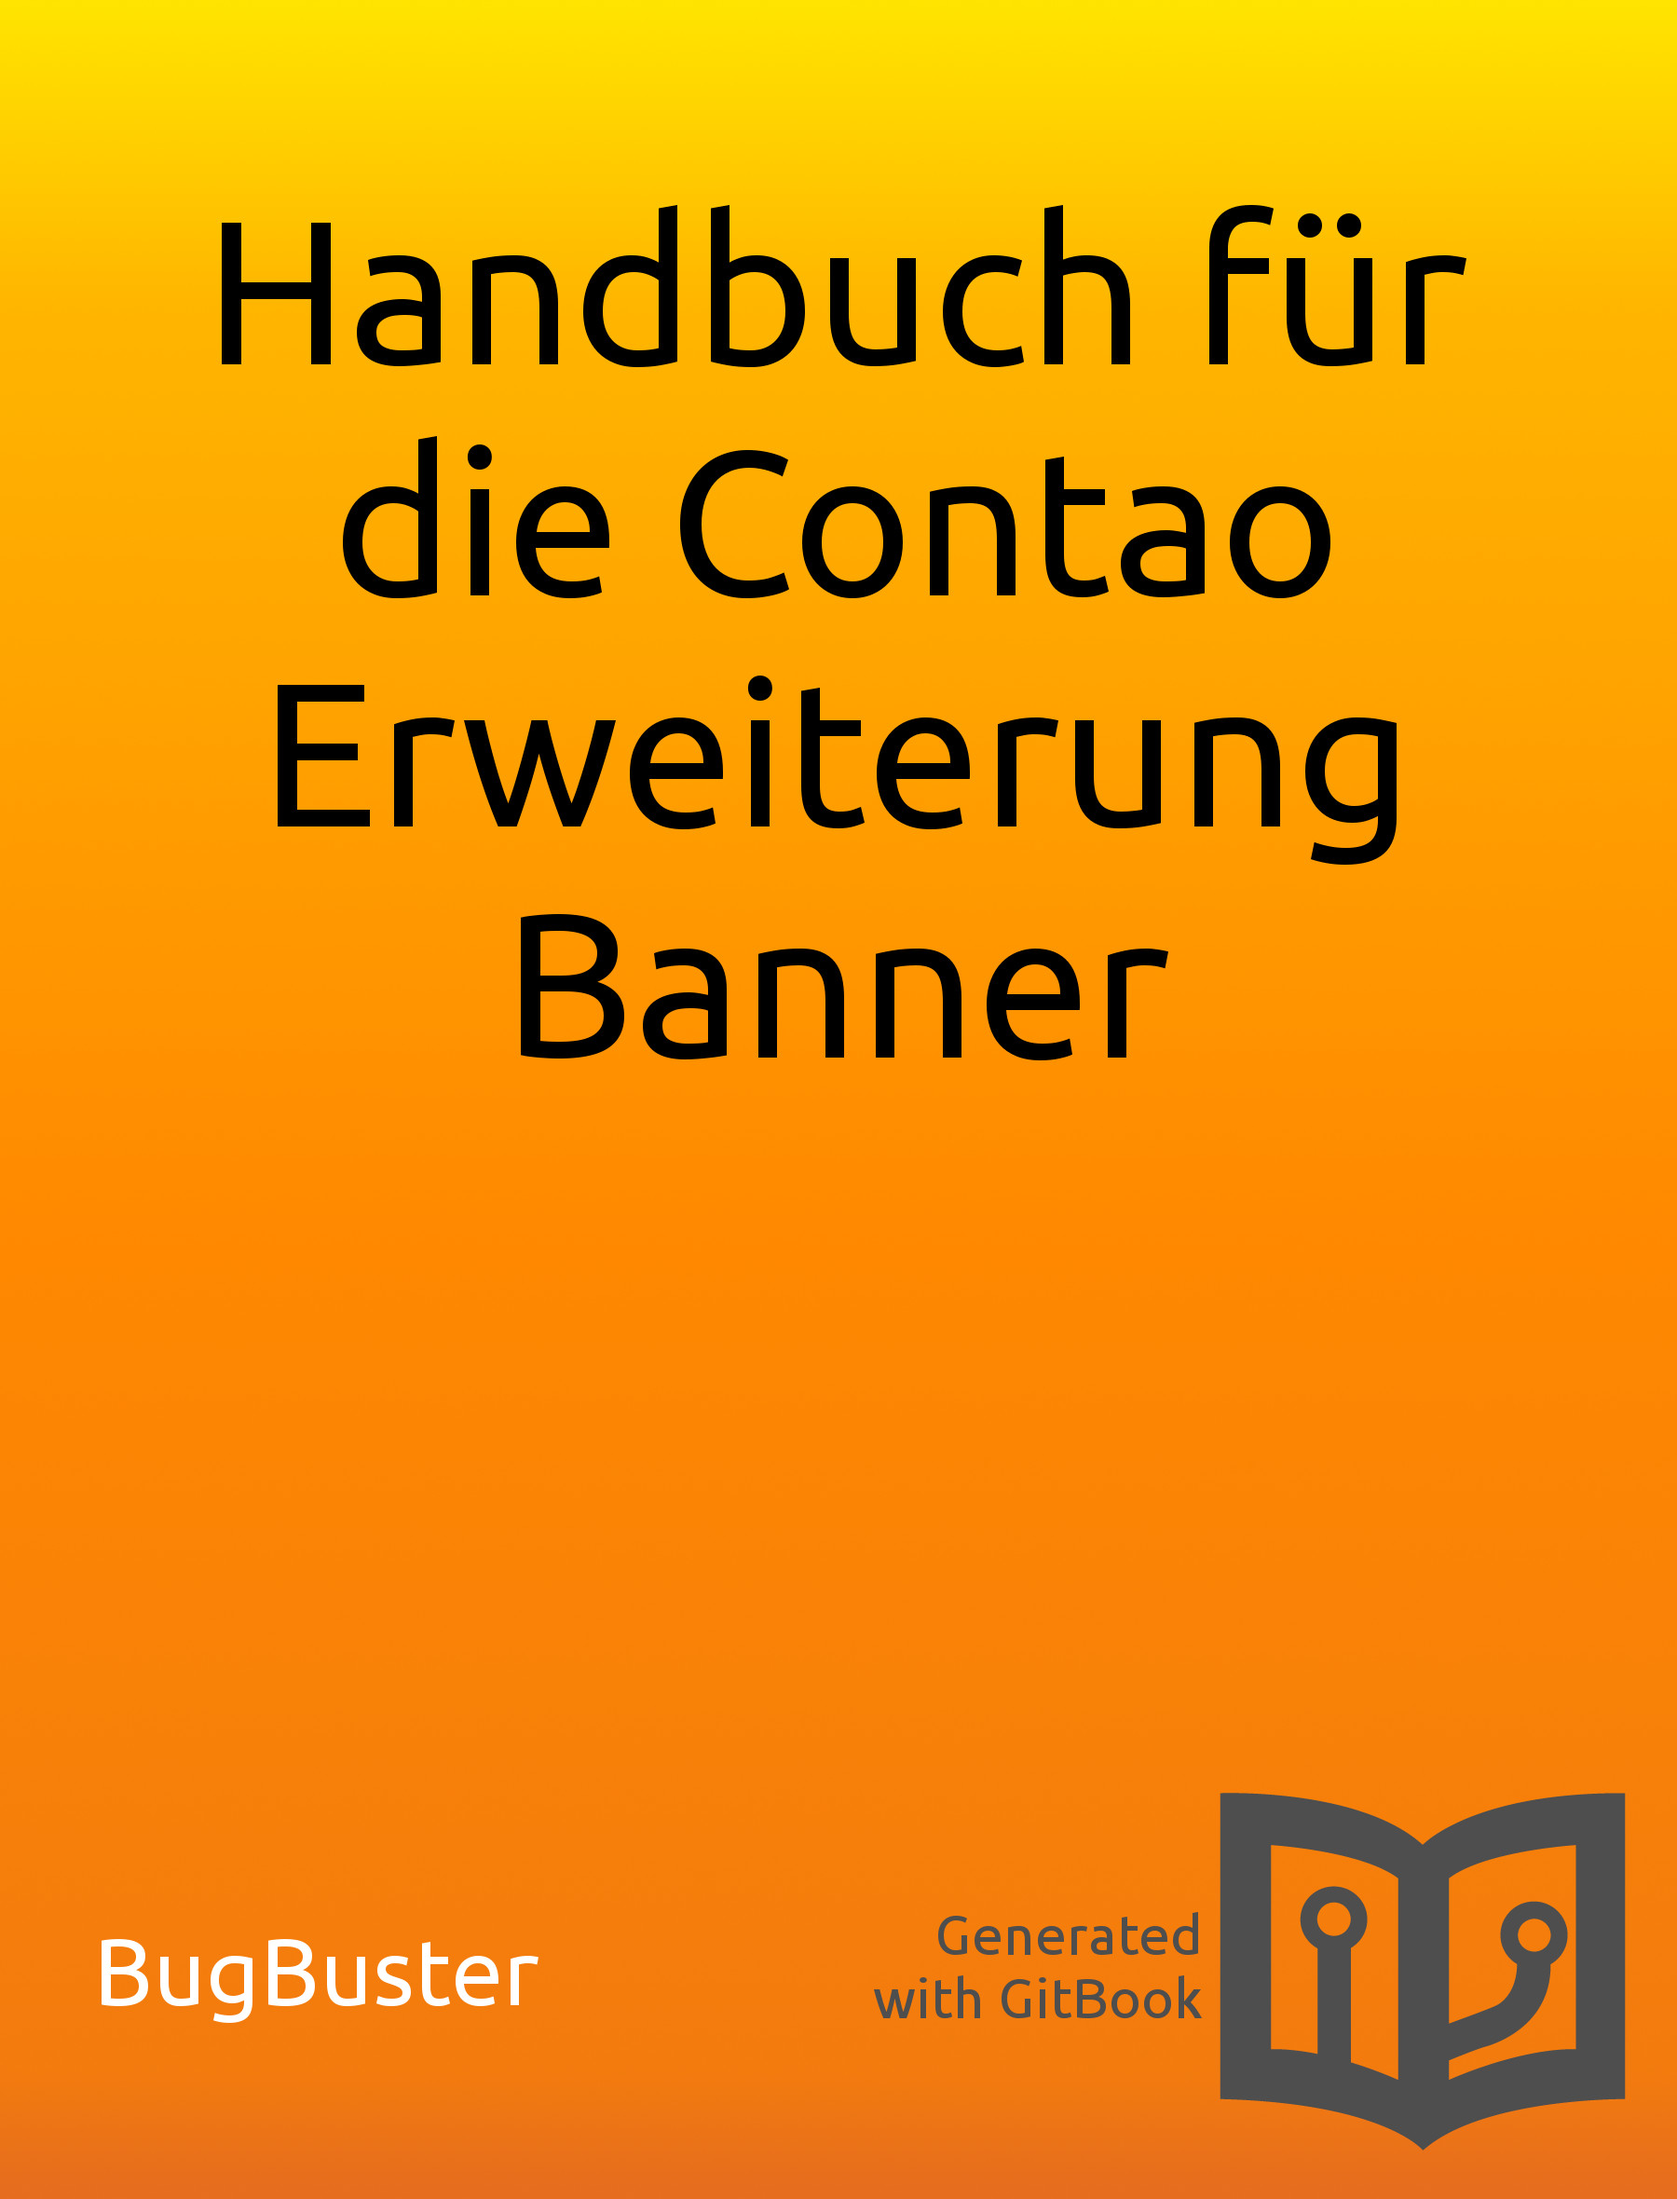
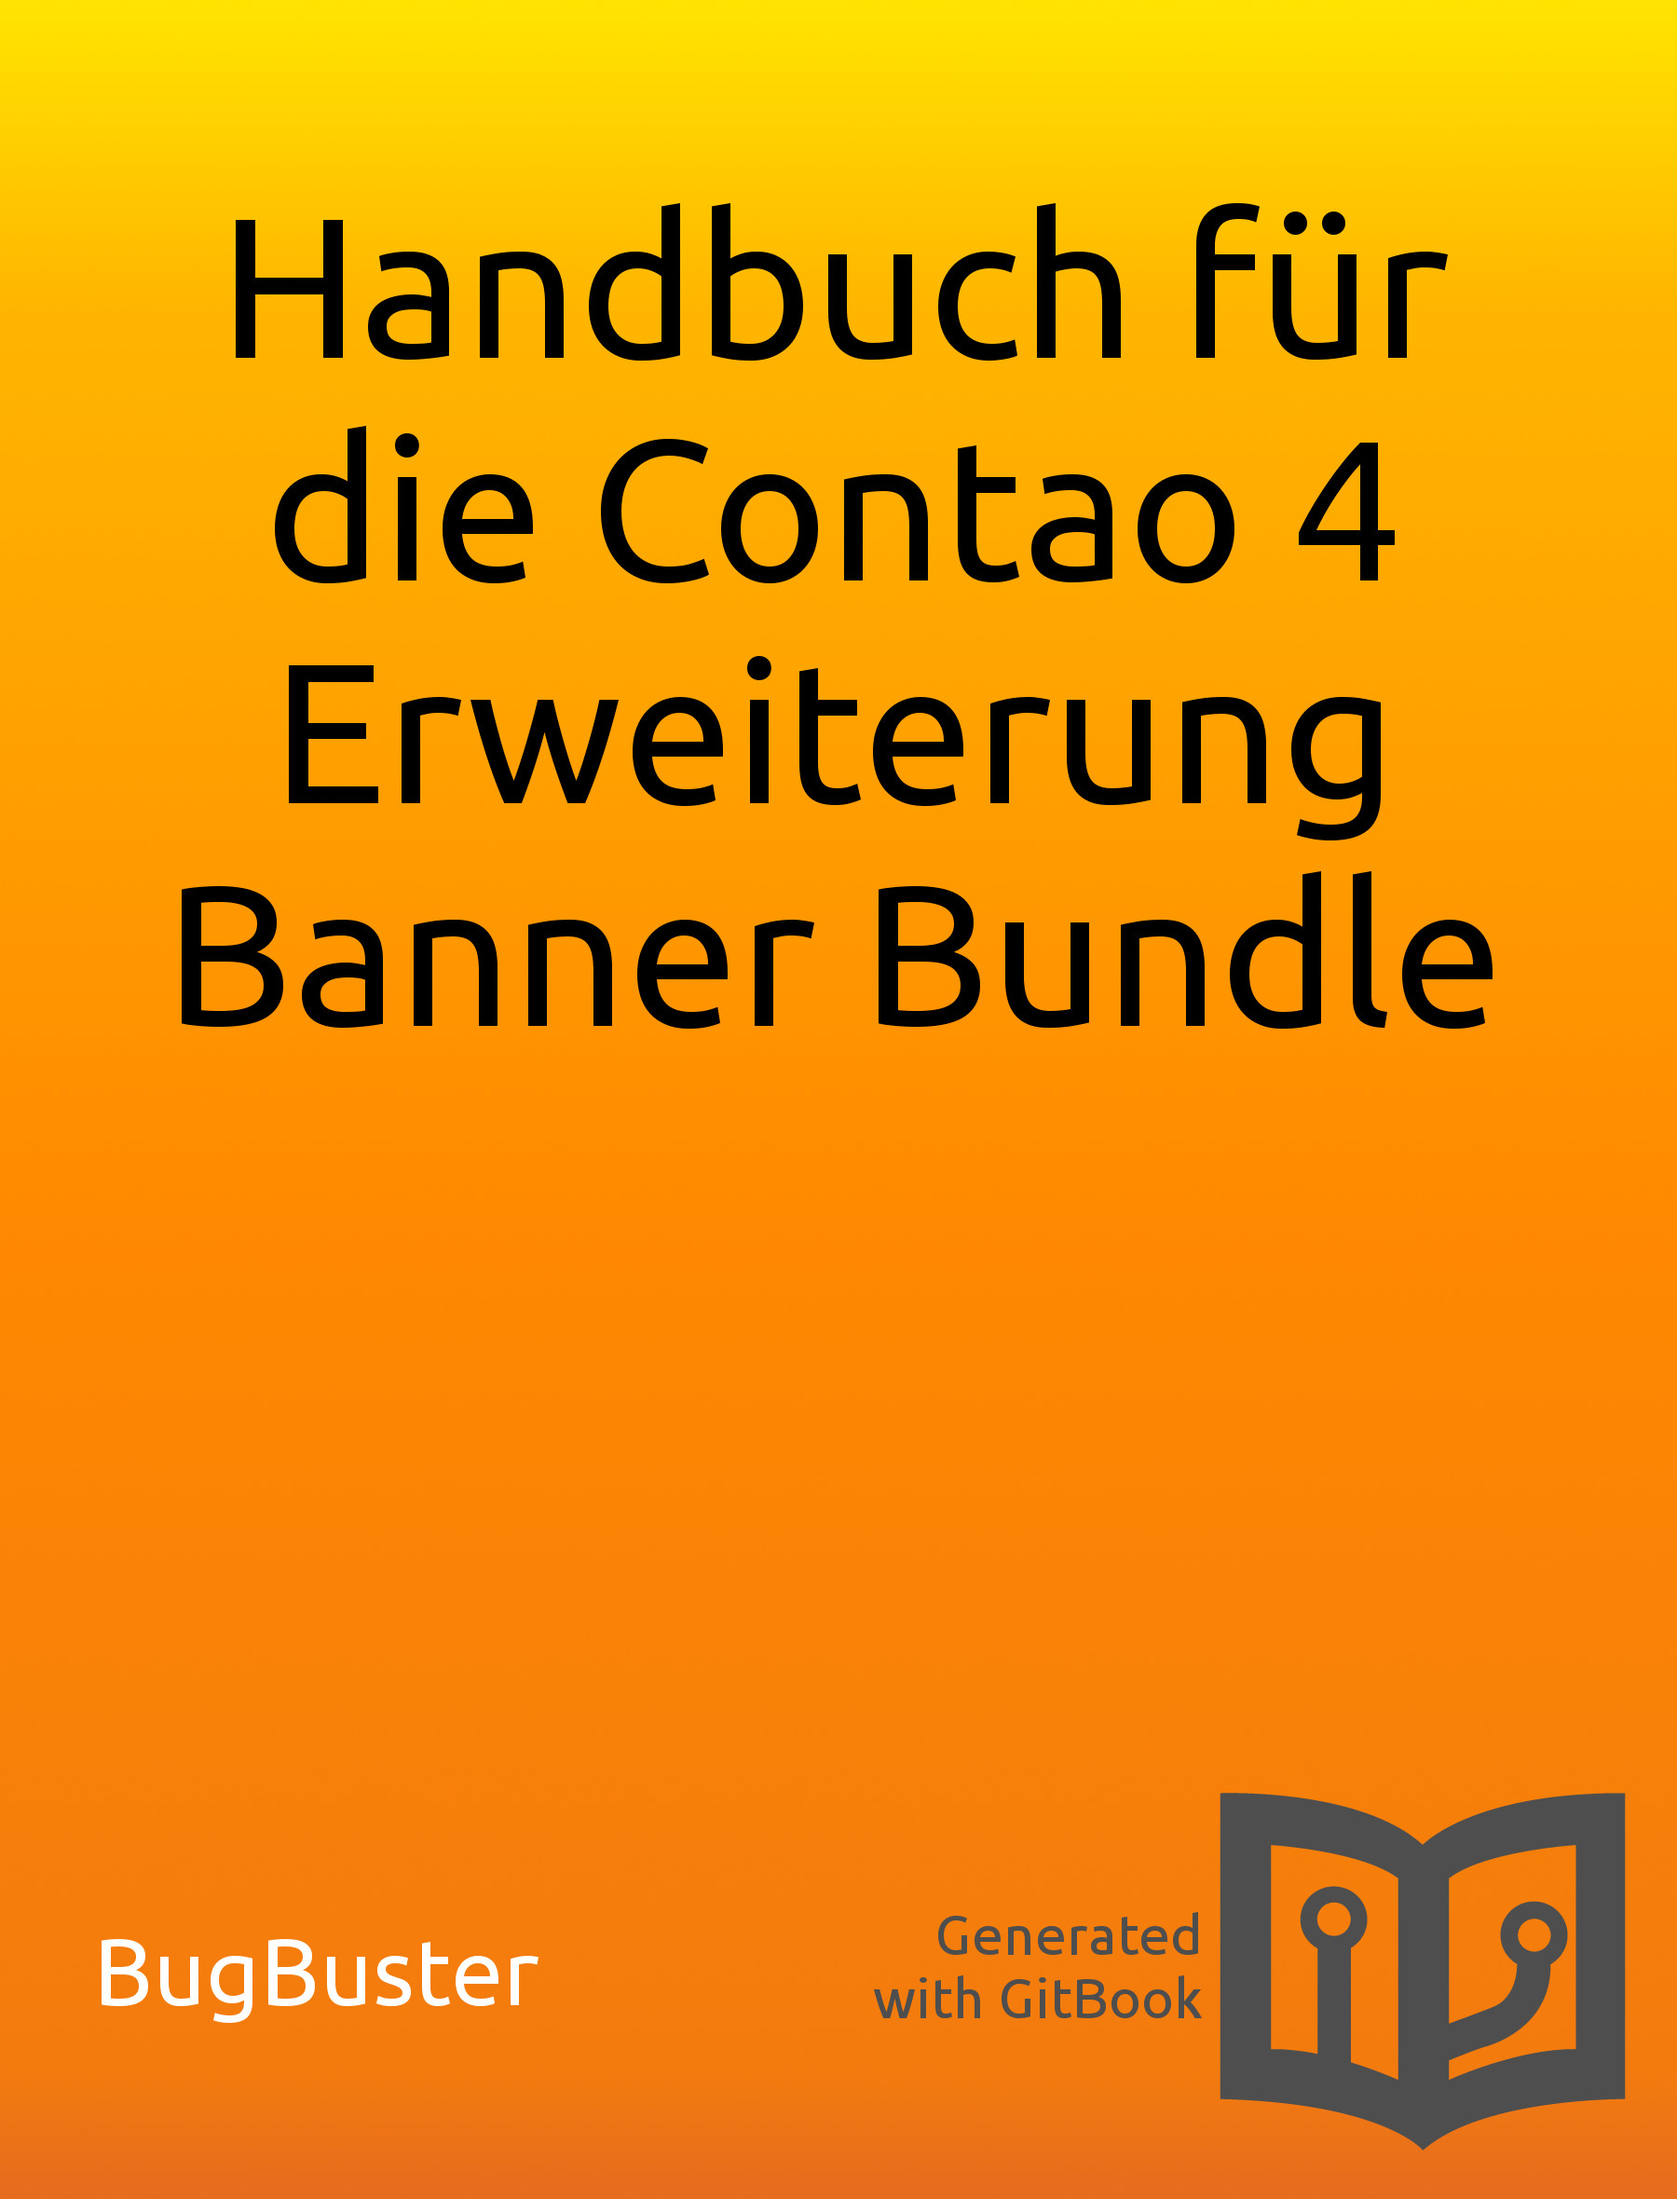
Neue Cover und Korrekturen im Inhaltsverzeichnis

diff --git a/manual/banner_bundle/de/SUMMARY.md b/manual/banner_bundle/de/SUMMARY.md
@@ -1,7 +1,7 @@
 ## Inhaltsverzeichnis
 
-* [Überblick Banner](01-ueberblick/README.md)
-* [Installation von Banner](02-installation/README.md)
+* [Überblick Banner Bundle](01-ueberblick/README.md)
+* [Installation von Banner Bundle](02-installation/README.md)
 * [Übersicht Frontend / Backend](03-uebersicht-fe-be/README.md)
     * [Backend](03-uebersicht-fe-be/01-uebersicht-backend.md)
     * [Frontend](03-uebersicht-fe-be/02-uebersicht-frontend.md)

diff --git a/manual/banner_bundle/en/SUMMARY.md b/manual/banner_bundle/en/SUMMARY.md
@@ -1,7 +1,7 @@
 ## Table of contents
 
-* [Overview Visitors](01-overview/README.md)
-* [Installation of Banner](02-installation/README.md)
+* [Overview Banner Bundle](01-overview/README.md)
+* [Installation of Banner Bundle](02-installation/README.md)
 * [Overview Front end / Back end](03-overview-fe-be/README.md)
     * [Back end](03-overview-fe-be/01-overview-back-end.md)
     * [Front end](03-overview-fe-be/02-overview-front-end.md)
